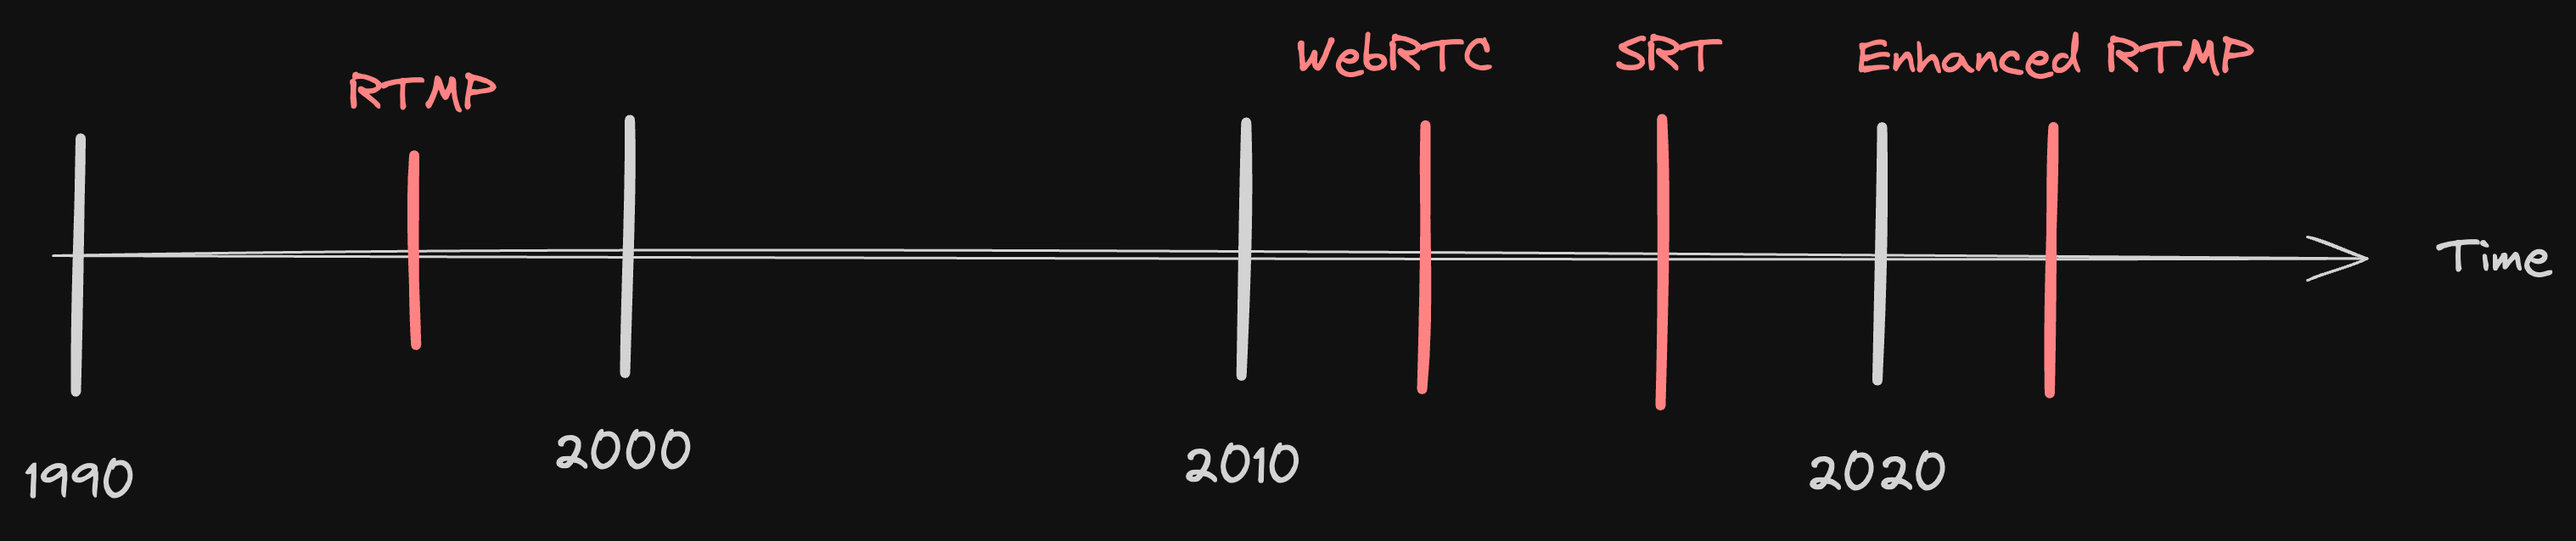
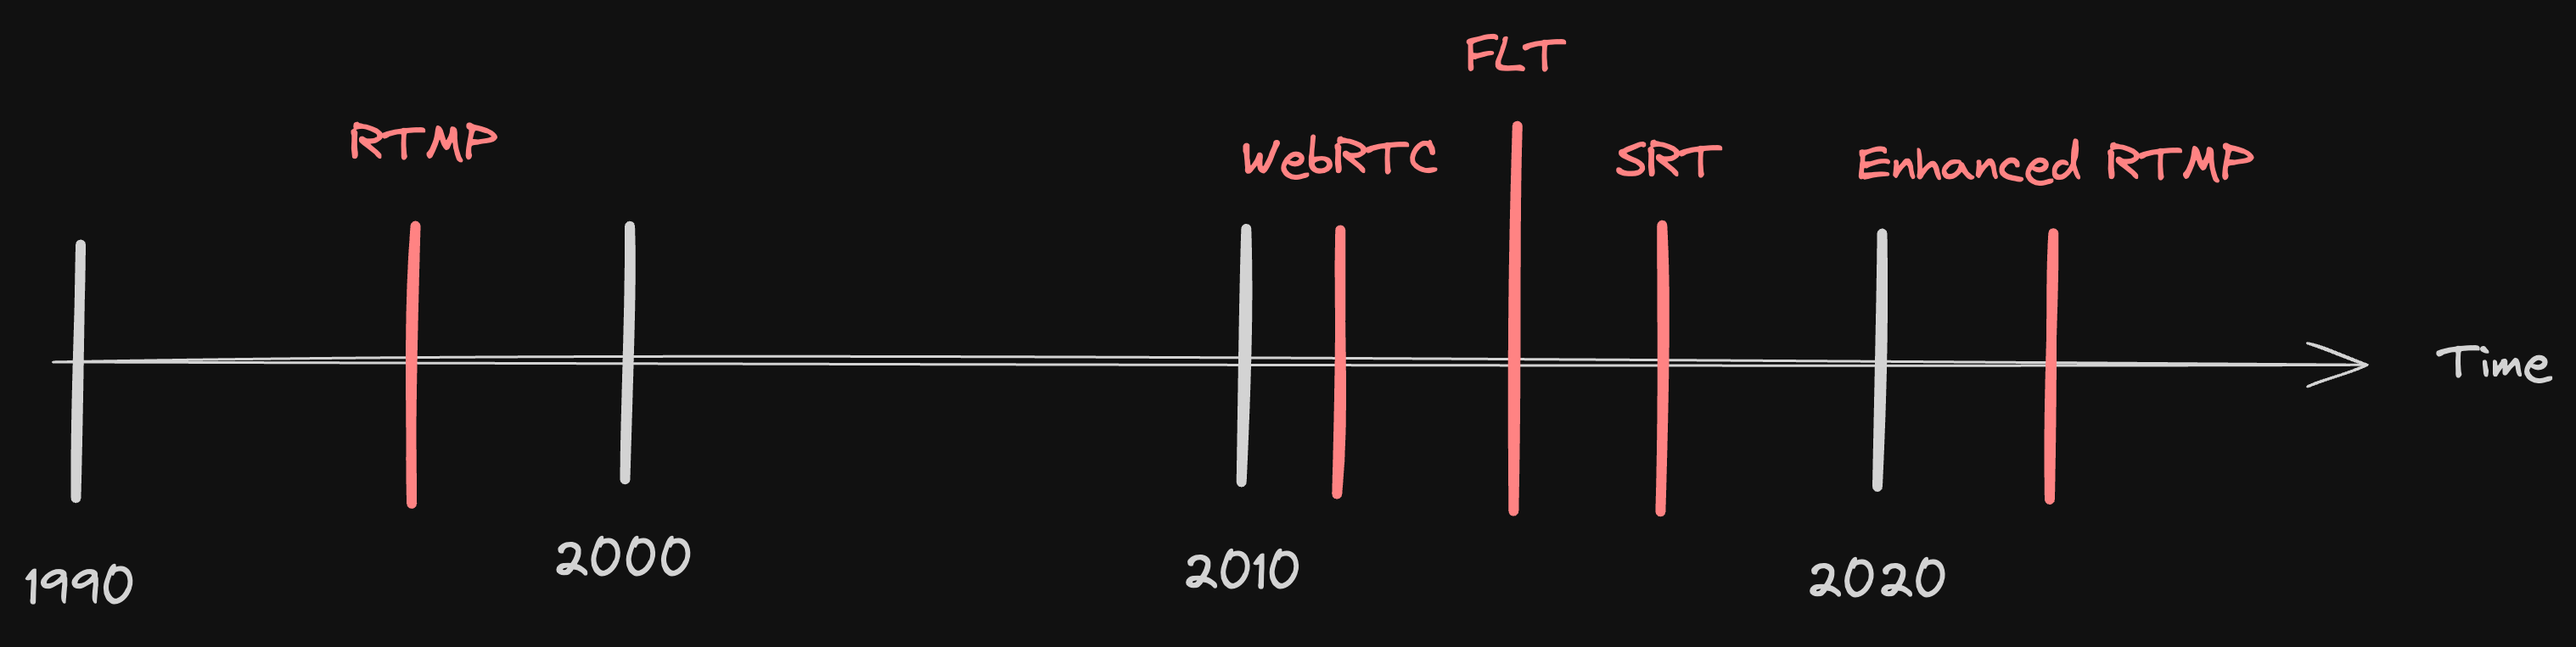
WIP

diff --git a/swag-2024-Q1-openday/slides.md b/swag-2024-Q1-openday/slides.md
@@ -4,7 +4,10 @@ build-lists: false
 
 # [fit] Go download **demo** resource.
 
+https://tinyurl.com/2024-q1-swag-openday-setup
+
 ![inline](setup-instruction.png)
+
 
 ---
 
@@ -12,6 +15,14 @@ build-lists: false
 
 ---
 ![inline](livestream-protocols-history.png)
+
+^
+RTMP: 1996
+WebRTC: 2011
+FTL: 2016 - 2020
+SRT: 2017
+Enhanced RTMP: 2022
+
 
 ---
 ![original](background.png)
@@ -35,6 +46,9 @@ build-lists: false
     - audio: AAC
 - Latency (3 ~ 5s)
 - RTMP still supported on many platform as publish protocol even though flash player is offically dead.
+
+^
+TCP focus on reliability over latency, it ensure packet arrive sequentially, this overhead introduce higher latency.
     
 ---
 ![original](background.png)
@@ -212,13 +226,13 @@ $$PktTsbpdTime = TsbpdTimeBase + PktTimestamp + TsbpdDelay + Drift$$
 
 ---
 
-| Packet Delivery Time | Serial Number | Pkt Timestamp | Time Base | SRT Latency | Drift |
+|  Serial Number | Pkt Timestamp | Time Base | SRT Latency | Drift |Packet Delivery Time |
 |----------------------|---------------|---------------|-----------|-------------|-------|
-| 180                  | 1             | 20            | 40        | 120         | 0     |
-| 200                  | 2             | 40            | 40        | 120         | 0     |
-| 220                  | 3             | 60            | 40        | 120         | 0     |
-| 240                  | 4             | 80            | 40        | 120         | 0     |
-| 260                  | 5             | 100           | 40        | 120         | 0     |
+| 1             | 20            | 40        | 120         | 0     | 180                  |
+| 2             | 40            | 40        | 120         | 0     | 200                  |
+| 4             | 80            | 40        | 120         | 0     | 240                  |
+| 5             | 100           | 40        | 120         | 0     | 260                  |
+| 3             | 60            | 40        | 120         | 0     | 220                  |
 
 
 ^ 想像Receiver 端收到1~5 packate, 計算Packet Delivery Time 的範例。
@@ -227,13 +241,13 @@ $$PktTsbpdTime = TsbpdTimeBase + PktTimestamp + TsbpdDelay + Drift$$
 [.build-lists: true]
 # [fit] Quiz 2: packet delivery time 
 
-| Packet Delivery Time | Serial Number | Pkt Timestamp | Time Base | SRT Latency | Drift |
+| Serial Number | Pkt Timestamp | Time Base | SRT Latency | Drift | Packet Delivery Time |
 |----------------------|---------------|---------------|-----------|-------------|-------|
-| ???                  | 6             | 120           | 40        | 120         | 0     |
-| ???                  | 7             | 140           | 40        | 120         | 0     |
+| 6             | 120           | 40        | 120         | 0     | ???                  |
+| 7             | 140           | 40        | 120         | 0     | ???                  |
 
-- 6: 00:00:00,280
-- 7: 00:00:00,300
+- 6: 280
+- 7: 300
 
 
 ---
@@ -277,11 +291,16 @@ $$PktTsbpdTime = TsbpdTimeBase + PktTimestamp + TsbpdDelay + Drift$$
 ^ 假設這是一個sender 的 buffer, 哪些packet too late ?
 
 ---
+
+![inline](srt-too-late-example.png)
+
+---
+
 # [fit] Quiz 3: Starts from with is too late ?
 [.build-lists: true]
 
 
-| Time | Serial Number    | PktTimestamp | Is Too Late |
+| Now | Serial Number    | PktTimestamp | Is Too Late |
 |------|------------------|--------------|-------------|
 | 140  | 3                | 60           | ?           |
 | 160  | 3 (retransmit-1) | 60           | ?           |
@@ -293,6 +312,10 @@ $$PktTsbpdTime = TsbpdTimeBase + PktTimestamp + TsbpdDelay + Drift$$
 
 ^ 怎麼算？ Time - 125 < 60
  Time < 185 is not too late
+
+---
+![inline](srt-too-late-quiz.png)
+
 
 ---
 # What protocol do we use, why ?
